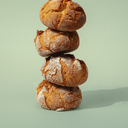
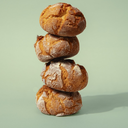
fix(web): align Safari favorite artwork with current photo

Changed region(s): [[0.25, 0.0, 1.0, 0.9375]]

diff --git a/apps/web/src/app/pedido/page.tsx b/apps/web/src/app/pedido/page.tsx
@@ -4,7 +4,7 @@ import { buildPublicAppUrl } from '@/lib/public-site-config';
 
 const pageTitle = 'Fazer pedido | QUEROBROAPP';
 const pageDescription = 'Sua vida + broa :) 🙂';
-const socialImagePath = '/querobroa-brand/stack.jpg';
+const socialImagePath = '/querobroa-brand/stack-wide.jpg';
 
 export function generateMetadata(): Metadata {
   const canonicalUrl = buildPublicAppUrl('/pedido', {
@@ -37,9 +37,9 @@ export function generateMetadata(): Metadata {
         ? [
             {
               url: socialImageUrl,
-              width: 1333,
-              height: 2000,
-              alt: 'Broas QUEROBROA empilhadas sobre fundo verde-claro'
+              width: 1200,
+              height: 630,
+              alt: 'Broas QUEROBROA empilhadas em preview largo sobre fundo verde-claro'
             }
           ]
         : undefined

diff --git a/apps/web/src/app/page.tsx b/apps/web/src/app/page.tsx
@@ -6,7 +6,7 @@ import { buildPublicAppUrl, isOpsHost } from '@/lib/public-site-config';
 
 const pageTitle = 'QUEROBROA';
 const pageDescription = 'Sua vida + broa :) 🙂';
-const homeSocialImagePath = '/querobroa-brand/stack.jpg';
+const homeSocialImagePath = '/querobroa-brand/stack-wide.jpg';
 
 export function generateMetadata(): Metadata {
   const canonicalUrl = buildPublicAppUrl('/', {
@@ -39,9 +39,9 @@ export function generateMetadata(): Metadata {
         ? [
             {
               url: socialImageUrl,
-              width: 1333,
-              height: 2000,
-              alt: 'Broas QUEROBROA empilhadas sobre fundo verde-claro'
+              width: 1200,
+              height: 630,
+              alt: 'Broas QUEROBROA empilhadas em preview largo sobre fundo verde-claro'
             }
           ]
         : undefined

diff --git a/docs/PROJECT_SNAPSHOT.md b/docs/PROJECT_SNAPSHOT.md
@@ -4,7 +4,7 @@ Ultima atualizacao: 2026-03-30
 
 ## Estado atual
 
-- 2026-03-30: a imagem canônica da home para favoritos, `apple-touch-icon`, `manifest`, favicon e preview social passou a ser a foto vertical das broas empilhadas sobre fundo verde-claro (`stack.jpg`). Os PNGs de ícone foram regenerados a partir dessa foto com crop quadrado centralizado e levemente deslocado para cima, sem padding lateral, substituindo a composição antiga que ainda aparecia ao favoritar o site ou sugerir atalho na tela inicial.
+- 2026-03-30: a imagem canônica da home para favoritos, `apple-touch-icon`, `manifest`, favicon e preview social passou a ser a foto das broas empilhadas sobre fundo verde-claro. Os PNGs de ícone foram regenerados a partir de `stack.jpg` com crop quadrado centralizado e levemente deslocado para cima, sem padding lateral, e a home/`/pedido` ganharam um preview largo dedicado (`stack-wide.jpg`) para substituir a thumb antiga que ainda aparecia em favoritos do Safari e compartilhamento.
 
 - 2026-03-30: `/pedidos` deixou de recarregar a workspace inteira ao apenas selecionar um pedido. O detalhe agora abre sem disparar novo `fetchOrdersWorkspace()` por troca de `selectedOrder`, removendo o micro-loop visual que acontecia ao clicar em cards. Na mesma varredura, `Clientes`, `Estoque` e `Dashboard` nao mostraram o mesmo anti-padrao de loader recriado por item selecionado.
 
@@ -190,7 +190,7 @@ Ultima atualizacao: 2026-03-30
 
 - Data: 2026-03-30
 - Ciclo executado: `pnpm --filter @querobroapp/web build`
-- Resultado: a home e `/pedido` passaram a anunciar a foto vertical `stack.jpg` como imagem social, e os arquivos `icon.png`, `apple-touch-icon.png`, `querobroa-icon-192.png` e `querobroa-icon-512.png` foram regenerados a partir dessa mesma asset com crop quadrado centralizado e um leve deslocamento para cima, para alinhar bookmark e atalho com a foto atual da marca sem bordas laterais nem desequilíbrio vertical.
+- Resultado: a home e `/pedido` passaram a anunciar `stack-wide.jpg` como preview largo, enquanto `icon.png`, `apple-touch-icon.png`, `querobroa-icon-192.png` e `querobroa-icon-512.png` foram regenerados a partir de `stack.jpg` com crop quadrado centralizado e um leve deslocamento para cima, alinhando favoritos, atalho e cards do Safari com a foto atual da marca sem bordas laterais nem desequilíbrio vertical.
 
 - Data: 2026-03-30
 - Ciclo executado: `pnpm --filter @querobroapp/web typecheck`, `pnpm --filter @querobroapp/web build`

diff --git a/docs/NEXT_STEP_PLAN.md b/docs/NEXT_STEP_PLAN.md
@@ -62,7 +62,7 @@ Criterio de pronto:
 - Manter a home sem CTA de instalacao/atalho enquanto iPhone/iOS nao permitir um fluxo realmente coerente por clique direto.
 - Manter a home travada ao viewport visivel real, sem qualquer rolagem residual causada por `100vh` ou barras do navegador.
 - Manter a home sem bounce/scroll residual em iPhone, mesmo com barras dinamicas do navegador, e validar isso no dominio publico.
-- Manter favoritos, favicon, `apple-touch-icon`, `manifest` e preview social da home ancorados na foto canonica atual (`stack.jpg`), usando crop quadrado centralizado com leve ajuste vertical nos ícones para evitar padding lateral, desequilíbrio no enquadramento ou reaparecimento de imagens antigas ao favoritar/adicionar atalho.
+- Manter favoritos, favicon, `apple-touch-icon`, `manifest` e preview social da home ancorados na foto canonica atual da pilha de broas, usando crop quadrado centralizado com leve ajuste vertical nos ícones e um preview largo dedicado (`stack-wide.jpg`) para evitar padding lateral, desequilíbrio no enquadramento ou reaparecimento de imagens antigas ao favoritar/adicionar atalho.
 - Manter o restante do app no mesmo modelo de viewport real da home, com modais, toasts, avisos e barras sticky respeitando `visualViewport` e safe areas do navegador.
 - Manter `Novo pedido`, detalhe de pedido e detalhe de cliente no padrao drawer lateral sobreposto, sem regressao para modal central flutuante nem scroll no container externo.
 - Manter o app sem pinch zoom e com gesto principal de navegacao restrito ao eixo vertical, evitando zoom acidental e conflito com drawers/calendario em mobile.
